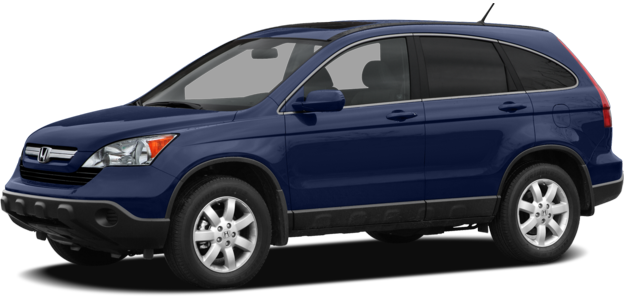
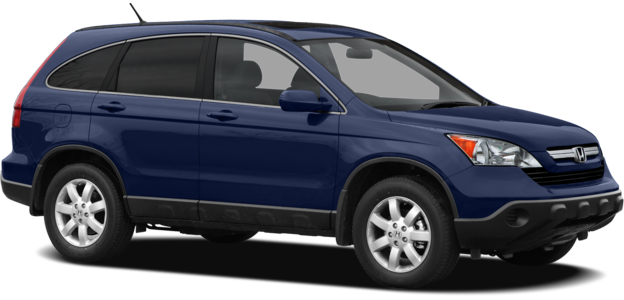
Car animation

diff --git a/app/assets/stylesheets/animations/_car.scss b/app/assets/stylesheets/animations/_car.scss
@@ -1,0 +1,32 @@
+.car-active {
+  -webkit-animation: animation 1000ms linear both;
+  animation: animation 1000ms linear both;
+}
+
+/* Generated with Bounce.js. Edit at http://goo.gl/3tCpFT */
+
+@-webkit-keyframes animation { 
+  0% { -webkit-transform: matrix3d(1, 0, 0, 0, 0, 1, 0, 0, 0, 0, 1, 0, -500, 0, 0, 1); transform: matrix3d(1, 0, 0, 0, 0, 1, 0, 0, 0, 0, 1, 0, -500, 0, 0, 1); }
+  4.3% { -webkit-transform: matrix3d(1, 0, 0, 0, 0, 1, 0, 0, 0, 0, 1, 0, -242.865, 0, 0, 1); transform: matrix3d(1, 0, 0, 0, 0, 1, 0, 0, 0, 0, 1, 0, -242.865, 0, 0, 1); }
+  8.61% { -webkit-transform: matrix3d(1, 0, 0, 0, 0, 1, 0, 0, 0, 0, 1, 0, -60.707, 0, 0, 1); transform: matrix3d(1, 0, 0, 0, 0, 1, 0, 0, 0, 0, 1, 0, -60.707, 0, 0, 1); }
+  12.91% { -webkit-transform: matrix3d(1, 0, 0, 0, 0, 1, 0, 0, 0, 0, 1, 0, 26.138, 0, 0, 1); transform: matrix3d(1, 0, 0, 0, 0, 1, 0, 0, 0, 0, 1, 0, 26.138, 0, 0, 1); }
+  17.22% { -webkit-transform: matrix3d(1, 0, 0, 0, 0, 1, 0, 0, 0, 0, 1, 0, 46.667, 0, 0, 1); transform: matrix3d(1, 0, 0, 0, 0, 1, 0, 0, 0, 0, 1, 0, 46.667, 0, 0, 1); }
+  28.33% { -webkit-transform: matrix3d(1, 0, 0, 0, 0, 1, 0, 0, 0, 0, 1, 0, 10.313, 0, 0, 1); transform: matrix3d(1, 0, 0, 0, 0, 1, 0, 0, 0, 0, 1, 0, 10.313, 0, 0, 1); }
+  39.44% { -webkit-transform: matrix3d(1, 0, 0, 0, 0, 1, 0, 0, 0, 0, 1, 0, -3.115, 0, 0, 1); transform: matrix3d(1, 0, 0, 0, 0, 1, 0, 0, 0, 0, 1, 0, -3.115, 0, 0, 1); }
+  61.66% { -webkit-transform: matrix3d(1, 0, 0, 0, 0, 1, 0, 0, 0, 0, 1, 0, 0.208, 0, 0, 1); transform: matrix3d(1, 0, 0, 0, 0, 1, 0, 0, 0, 0, 1, 0, 0.208, 0, 0, 1); }
+  83.98% { -webkit-transform: matrix3d(1, 0, 0, 0, 0, 1, 0, 0, 0, 0, 1, 0, -0.014, 0, 0, 1); transform: matrix3d(1, 0, 0, 0, 0, 1, 0, 0, 0, 0, 1, 0, -0.014, 0, 0, 1); }
+  100% { -webkit-transform: matrix3d(1, 0, 0, 0, 0, 1, 0, 0, 0, 0, 1, 0, 0, 0, 0, 1); transform: matrix3d(1, 0, 0, 0, 0, 1, 0, 0, 0, 0, 1, 0, 0, 0, 0, 1); } 
+}
+
+@keyframes animation { 
+  0% { -webkit-transform: matrix3d(1, 0, 0, 0, 0, 1, 0, 0, 0, 0, 1, 0, -500, 0, 0, 1); transform: matrix3d(1, 0, 0, 0, 0, 1, 0, 0, 0, 0, 1, 0, -500, 0, 0, 1); }
+  4.3% { -webkit-transform: matrix3d(1, 0, 0, 0, 0, 1, 0, 0, 0, 0, 1, 0, -242.865, 0, 0, 1); transform: matrix3d(1, 0, 0, 0, 0, 1, 0, 0, 0, 0, 1, 0, -242.865, 0, 0, 1); }
+  8.61% { -webkit-transform: matrix3d(1, 0, 0, 0, 0, 1, 0, 0, 0, 0, 1, 0, -60.707, 0, 0, 1); transform: matrix3d(1, 0, 0, 0, 0, 1, 0, 0, 0, 0, 1, 0, -60.707, 0, 0, 1); }
+  12.91% { -webkit-transform: matrix3d(1, 0, 0, 0, 0, 1, 0, 0, 0, 0, 1, 0, 26.138, 0, 0, 1); transform: matrix3d(1, 0, 0, 0, 0, 1, 0, 0, 0, 0, 1, 0, 26.138, 0, 0, 1); }
+  17.22% { -webkit-transform: matrix3d(1, 0, 0, 0, 0, 1, 0, 0, 0, 0, 1, 0, 46.667, 0, 0, 1); transform: matrix3d(1, 0, 0, 0, 0, 1, 0, 0, 0, 0, 1, 0, 46.667, 0, 0, 1); }
+  28.33% { -webkit-transform: matrix3d(1, 0, 0, 0, 0, 1, 0, 0, 0, 0, 1, 0, 10.313, 0, 0, 1); transform: matrix3d(1, 0, 0, 0, 0, 1, 0, 0, 0, 0, 1, 0, 10.313, 0, 0, 1); }
+  39.44% { -webkit-transform: matrix3d(1, 0, 0, 0, 0, 1, 0, 0, 0, 0, 1, 0, -3.115, 0, 0, 1); transform: matrix3d(1, 0, 0, 0, 0, 1, 0, 0, 0, 0, 1, 0, -3.115, 0, 0, 1); }
+  61.66% { -webkit-transform: matrix3d(1, 0, 0, 0, 0, 1, 0, 0, 0, 0, 1, 0, 0.208, 0, 0, 1); transform: matrix3d(1, 0, 0, 0, 0, 1, 0, 0, 0, 0, 1, 0, 0.208, 0, 0, 1); }
+  83.98% { -webkit-transform: matrix3d(1, 0, 0, 0, 0, 1, 0, 0, 0, 0, 1, 0, -0.014, 0, 0, 1); transform: matrix3d(1, 0, 0, 0, 0, 1, 0, 0, 0, 0, 1, 0, -0.014, 0, 0, 1); }
+  100% { -webkit-transform: matrix3d(1, 0, 0, 0, 0, 1, 0, 0, 0, 0, 1, 0, 0, 0, 0, 1); transform: matrix3d(1, 0, 0, 0, 0, 1, 0, 0, 0, 0, 1, 0, 0, 0, 0, 1); } 
+}

diff --git a/app/assets/stylesheets/ui/_event-display.scss b/app/assets/stylesheets/ui/_event-display.scss
@@ -30,7 +30,32 @@
   font-weight: bold;
   text-align: center;
 
-  div { width: 100%; }
+  div {
+    position: relative;
+    width: 100%;
+  }
+
+  span {
+    position: absolute;
+    top: 50%;
+    right: 0;
+    left: 0;
+    text-shadow: 0 1px 0px #fff;
+    z-index: 1;
+  }
+
+  img {
+    position: relative;
+    left: 0;
+    display: block;
+    width: 75%;
+    margin: 0 auto;
+    opacity: 0;
+  }
+
+  .car-active {
+    opacity: 0.15;
+  }
 }
 
 @media screen and (max-width: 800px) {

diff --git a/app/assets/javascripts/map.js b/app/assets/javascripts/map.js
@@ -1,4 +1,8 @@
 window.onload = function() {
+  // car animation
+  if($('.event-display-empty-state').length) {
+    $('.event-display-empty-state img').addClass('car-active');
+  }
 
   var eventList = _.clone(window.events);
 

diff --git a/app/assets/stylesheets/animations/_base.scss b/app/assets/stylesheets/animations/_base.scss
@@ -1,2 +1,3 @@
+@import 'car';
 @import 'fade';
 @import 'scale';
